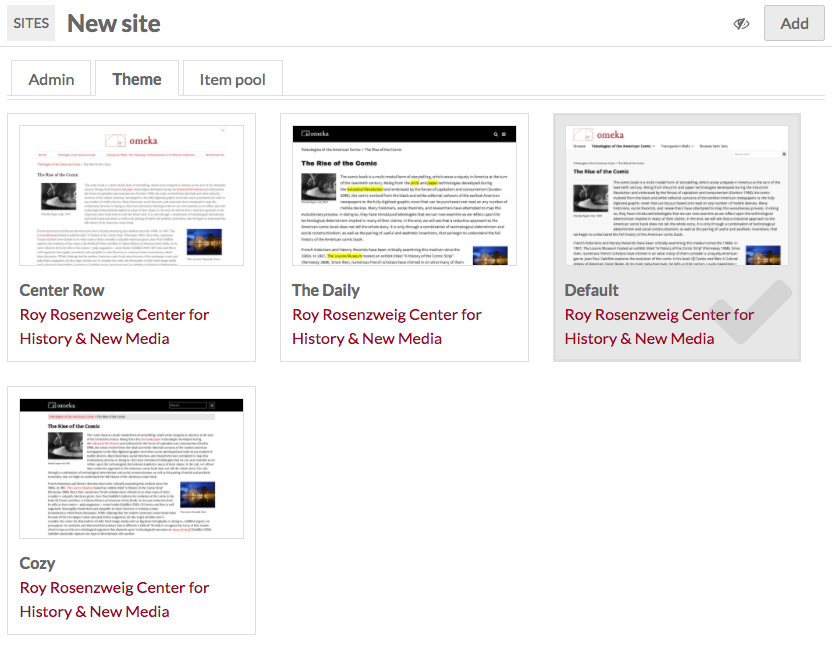
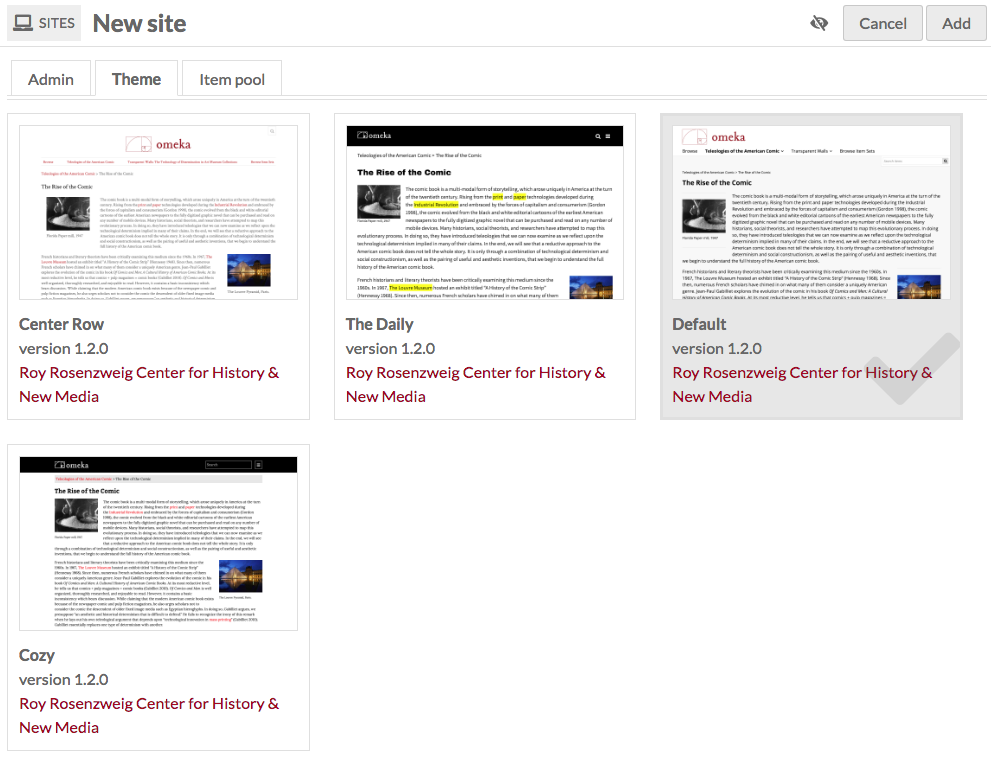
site index
cancel button updates

diff --git a/docs/sites/index.md b/docs/sites/index.md
@@ -92,6 +92,7 @@ In the upper right hand corner of the window on this tab, you can use buttons to
 - *Public/Private button* (see below);
 - *View* the public side of the site;
 - *Delete* the site;
+- *Cancel* making changes;
 - *Save* changes.
 
 The *make public/private* button (eye icon) is used to both indicate and set whether the site is visible to the public or only to users of this Omeka S installation 
@@ -119,7 +120,9 @@ Then select their role from the dropdown:
 * *Editor:* user can access and edit the site’s backend.
 * *Admin:* user has full administrative privileges for the site, including adding users and deleting the site.
 
-Once you've added one or more users, click the Save button located in the upper right hand corner. You can add or revoke privileges for users by going back to the User permissions tab and selecting or deselecting the boxes and clicking Save. Users can be deleted from the site by clicking the trash can icon on their row.
+You can add or revoke privileges for users by going back to the User permissions tab and selecting or deselecting the boxes and clicking Save. Users can be deleted from the site by clicking the trash can icon on their row.
+
+Once you've added one or more users, click the Save button located in the upper right hand corner. To cancel your changes, click the Cancel button in the upper right hand corner. 
 
 ## See also: 
 * [Site Pages](../sites/site_pages.md)
